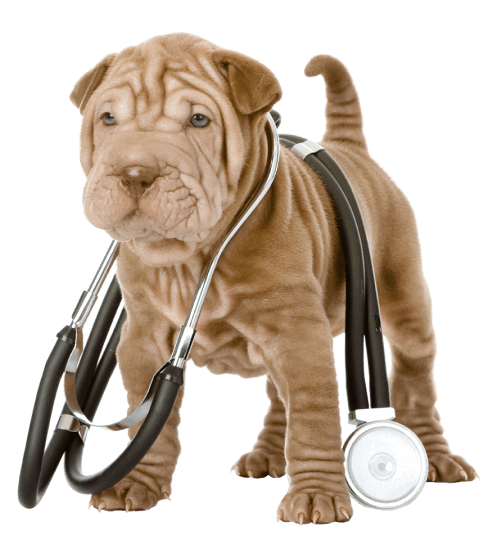
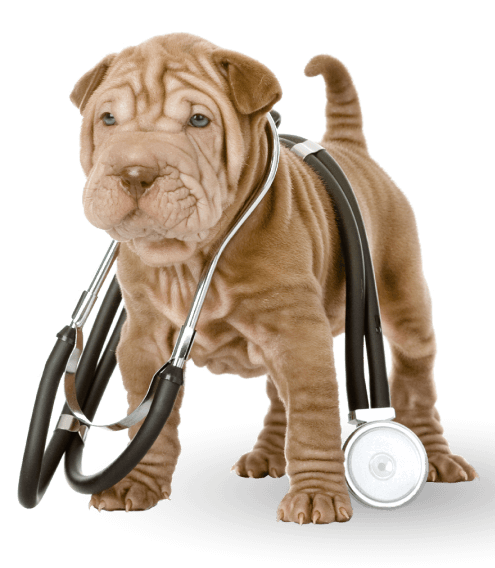
uz

diff --git a/styles.css b/styles.css
@@ -46,6 +46,9 @@ body {
 
 /* Header started */
 .site-header {
+  position: fixed;
+  width: 100%;
+  z-index: 15;
   background-color: #fff;
 }
 .header-start {
@@ -313,7 +316,7 @@ body {
 /* Hero section started  */
 
 .hero {
-  padding-top: 153px;
+  padding-top: 373px;
   padding-right: 97px;
   padding-bottom: 354px;
   background-position: calc(50% - 515px) calc(50% + -91px), calc(50% - -740px) calc(50% + 160px);
@@ -385,11 +388,11 @@ body {
 /* Hero section finished */
 /* CONTACT INTRO STARTED */
 .intro {
-  padding-top: 111px;
-  background-image: url("./images/contactibg.png");
+  padding-top: 201px;
+  background-image: url("./images/bigdog.png");
   background-repeat: no-repeat;
-  background-size: contain;
-  background-position: calc(50% - -476px) calc(50% + 0px);
+  background-size: 487px 548px;
+  background-position: calc(50% - -476px) calc(50% + 100px);
 }
 .intro__wrapper {
   margin-left: 104px;
@@ -546,7 +549,7 @@ body {
 }
 .site-faq__hero {
   margin-left: 195px;
-  padding-top: 118px;
+  padding-top: 280px;
   padding-bottom: 273px;
   background-image: url("./images/catfaq.png"), url("./images/birds.png");
   background-repeat: no-repeat;
@@ -742,8 +745,8 @@ body {
 }
 .article-wrapper::before {
   position: absolute;
-  top: calc(25% - 115px);
-  left: calc(50% + -434px);
+  top: calc(25% - -640px);
+  left: calc(50% + -436px);
   width: 142px;
   height: 128px;
   background-image: url("./images/left.svg");
@@ -752,8 +755,8 @@ body {
 }
 .article-wrapper::after {
   position: absolute;
-  top: calc(25% - 54px);
-  right: calc(50% + -580px);
+  top: calc(25% - -700px);
+  right: calc(50% + -591px);
   width: 142px;
   height: 128px;
   background-image: url("./images/right.svg");
@@ -777,8 +780,8 @@ body {
 }
 .article-blockquote::before {
   position: absolute;
-  top: calc(25% - 124px);
-  left: calc(50% + -79px);
+  top: calc(25% - -620px);
+  left: calc(50% + -87px);
   width: 142px;
   height: 1px;
   background-image: url("./images/line.svg");
@@ -787,8 +790,8 @@ body {
 }
 .article-blockquote::after {
   position: absolute;
-  top: calc(25% - -23px);
-  left: calc(50% + -79px);
+  top: calc(25% - -790px);
+  left: calc(50% + -87px);
   width: 142px;
   height: 1px;
   background-image: url("./images/line.svg");

diff --git a/contact.html b/contact.html
@@ -5,8 +5,8 @@
   <meta http-equiv="X-UA-Compatible" content="IE=edge">
   <meta name="viewport" content="width=device-width, initial-scale=1.0">
   <!-- <link rel="stylesheet" href="./normalize.css"> -->
-  <!-- <link rel="stylesheet" href="./styles.css"> -->
-  <link rel="stylesheet" href="./mini.css">
+  <link rel="stylesheet" href="./styles.css">
+  <!-- <link rel="stylesheet" href="./mini.css"> -->
   <title>Vetrinary clinic</title>
 </head>
 <body>
@@ -76,7 +76,7 @@
   <!-- Main section started -->
   <main class="site__main">
     <!-- CONTACT INTRO STARTED -->
-    <header class="intro">
+    <section class="intro">
       <div class="container">
         <div class="intro__wrapper">
           <h2 class="intro__title">Контакты</h2>
@@ -117,7 +117,7 @@
           </address>
         </div>
       </div>
-    </header>
+    </section>
     <!-- INTRO SECTION FINISHED -->
     <!--SEARCH SECTION STARTED -->
     <section class="search">

diff --git a/index.html b/index.html
@@ -5,8 +5,8 @@
   <meta http-equiv="X-UA-Compatible" content="IE=edge">
   <meta name="viewport" content="width=device-width, initial-scale=1.0">
   <!-- <link rel="stylesheet" href="./normalize.css"> -->
-  <!-- <link rel="stylesheet" href="./styles.css"> -->
-  <link rel="stylesheet" href="./mini.css">
+  <link rel="stylesheet" href="./styles.css">
+  <!-- <link rel="stylesheet" href="./mini.css"> -->
   <title>Vetrinary clinic</title>
 </head>
 <body>
